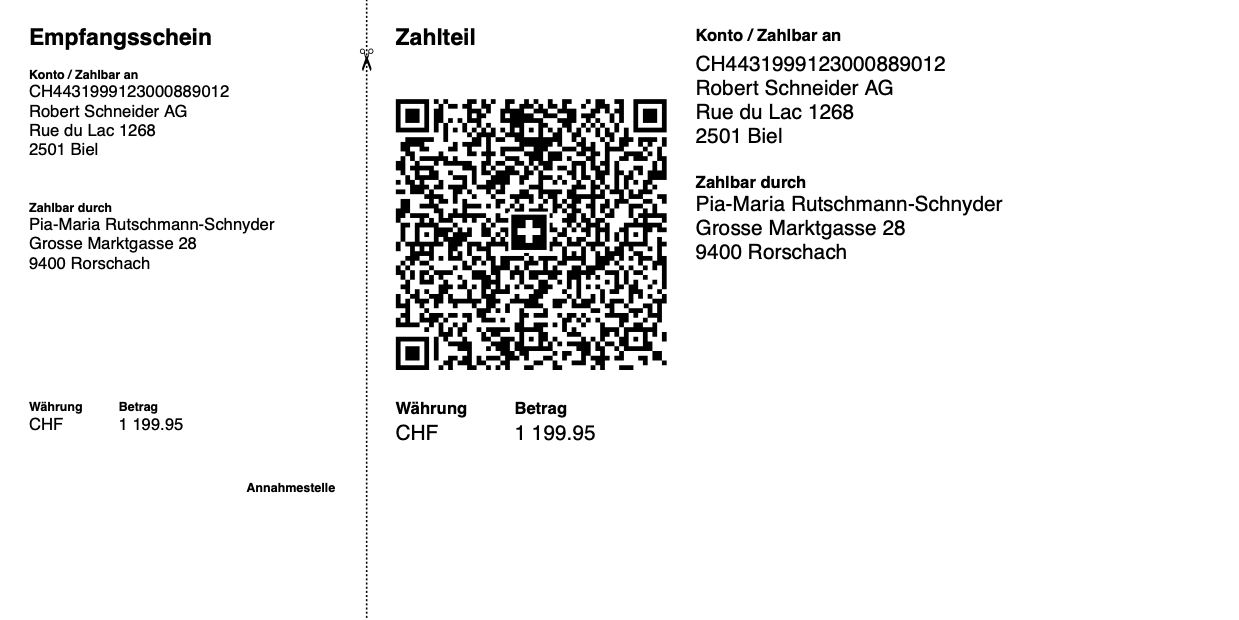
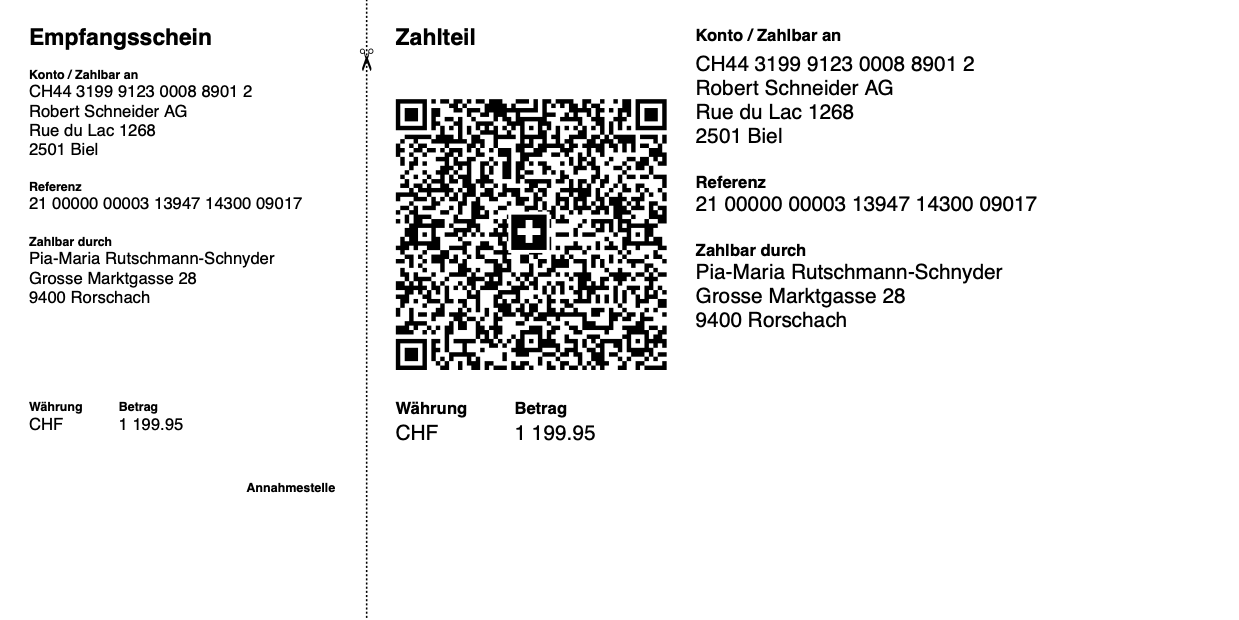
Updated examples

diff --git a/tests/separate.js b/tests/separate.js
@@ -3,6 +3,7 @@ const SwissQRBill = require("../");
 const data = {
   currency: "CHF",
   amount: 1199.95,
+  reference: "21 00000 00003 13947 14300 09017",
   creditor: {
     name: "Robert Schneider AG",
     address: "Rue du Lac 1268",
@@ -20,4 +21,4 @@ const data = {
   }
 };
 
-const bill = new SwissQRBill.PDF(data, "./output/separate.pdf", { "scissors" : false });
+const bill = new SwissQRBill.PDF(data, "./output/separate.pdf", { "scissors" : false, size: "A4" });

diff --git a/tests/ts.ts b/tests/ts.ts
@@ -3,6 +3,7 @@ import { SwissQRBill } from "../lib/index";
 const sampleObject: SwissQRBill.data = {
   currency: "CHF",
   amount: 1199.95,
+  reference: "21 00000 00003 13947 14300 09017",
   creditor: {
     name: "Robert Schneider AG",
     address: "Rue du Lac 1268",

diff --git a/example/a6.js b/example/a6.js
@@ -3,6 +3,7 @@ const SwissQRBill = require("../");
 const data = {
   currency: "CHF",
   amount: 1199.95,
+  reference: "21 00000 00003 13947 14300 09017",
   creditor: {
     name: "Robert Schneider AG",
     address: "Rue du Lac 1268",

diff --git a/example/multipage.js b/example/multipage.js
@@ -3,6 +3,7 @@ const SwissQRBill = require("../");
 const data = {
   currency: "CHF",
   amount: 1199.95,
+  reference: "21 00000 00003 13947 14300 09017",
   creditor: {
     name: "Robert Schneider AG",
     address: "Rue du Lac 1268",

diff --git a/tests/a4.js b/tests/a4.js
@@ -3,6 +3,7 @@ const SwissQRBill = require("../");
 const data = {
   currency: "CHF",
   amount: 1199.95,
+  reference: "21 00000 00003 13947 14300 09017",
   creditor: {
     name: "Robert Schneider AG",
     address: "Rue du Lac 1268",

diff --git a/tests/english.js b/tests/english.js
@@ -3,6 +3,7 @@ const SwissQRBill = require("../");
 const data = {
   currency: "CHF",
   amount: 1199.95,
+  reference: "21 00000 00003 13947 14300 09017",
   creditor: {
     name: "Robert Schneider AG",
     address: "Rue du Lac 1268",

diff --git a/tests/euro.js b/tests/euro.js
@@ -3,6 +3,7 @@ const SwissQRBill = require("../");
 const data = {
   currency: "EUR",
   amount: 1199.95,
+  reference: "21 00000 00003 13947 14300 09017",
   creditor: {
     name: "Robert Schneider AG",
     address: "Rue du Lac 1268",

diff --git a/tests/french.js b/tests/french.js
@@ -3,6 +3,7 @@ const SwissQRBill = require("../");
 const data = {
   currency: "CHF",
   amount: 1199.95,
+  reference: "21 00000 00003 13947 14300 09017",
   creditor: {
     name: "Robert Schneider AG",
     address: "Rue du Lac 1268",

diff --git a/tests/italian.js b/tests/italian.js
@@ -3,6 +3,7 @@ const SwissQRBill = require("../");
 const data = {
   currency: "CHF",
   amount: 1199.95,
+  reference: "21 00000 00003 13947 14300 09017",
   creditor: {
     name: "Robert Schneider AG",
     address: "Rue du Lac 1268",

diff --git a/tests/multipage.js b/tests/multipage.js
@@ -3,6 +3,7 @@ const SwissQRBill = require("../");
 const data = {
   currency: "CHF",
   amount: 1199.95,
+  reference: "21 00000 00003 13947 14300 09017",
   creditor: {
     name: "Robert Schneider AG",
     address: "Rue du Lac 1268",

diff --git a/tests/no-debitor.js b/tests/no-debitor.js
@@ -3,6 +3,7 @@ const SwissQRBill = require("../");
 const data = {
   currency: "EUR",
   amount: 1199.95,
+  reference: "21 00000 00003 13947 14300 09017",
   creditor: {
     name: "Robert Schneider AG",
     address: "Rue du Lac 1268",

diff --git a/tests/no-amount.js b/tests/no-amount.js
@@ -2,6 +2,7 @@ const SwissQRBill = require("../");
 
 const data = {
   currency: "CHF",
+  reference: "21 00000 00003 13947 14300 09017",
   creditor: {
     name: "Robert Schneider AG",
     address: "Rue du Lac 1268",
